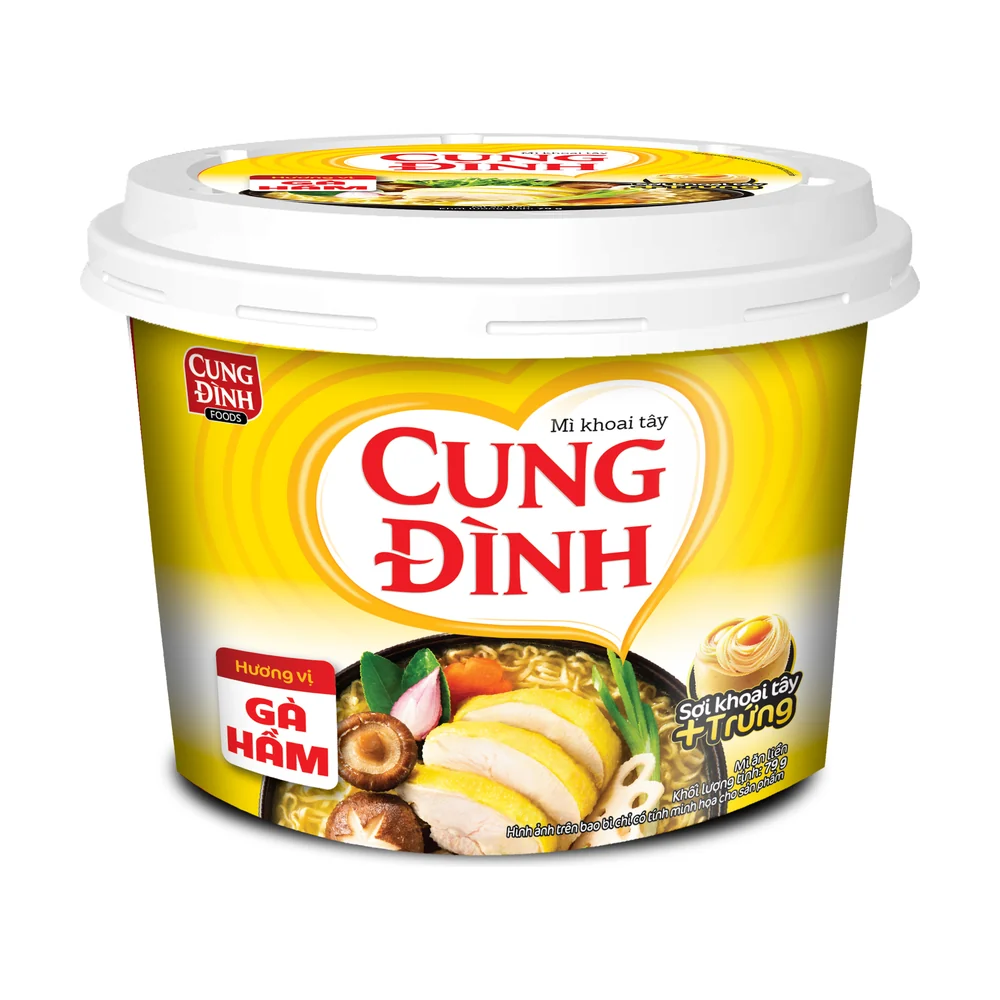
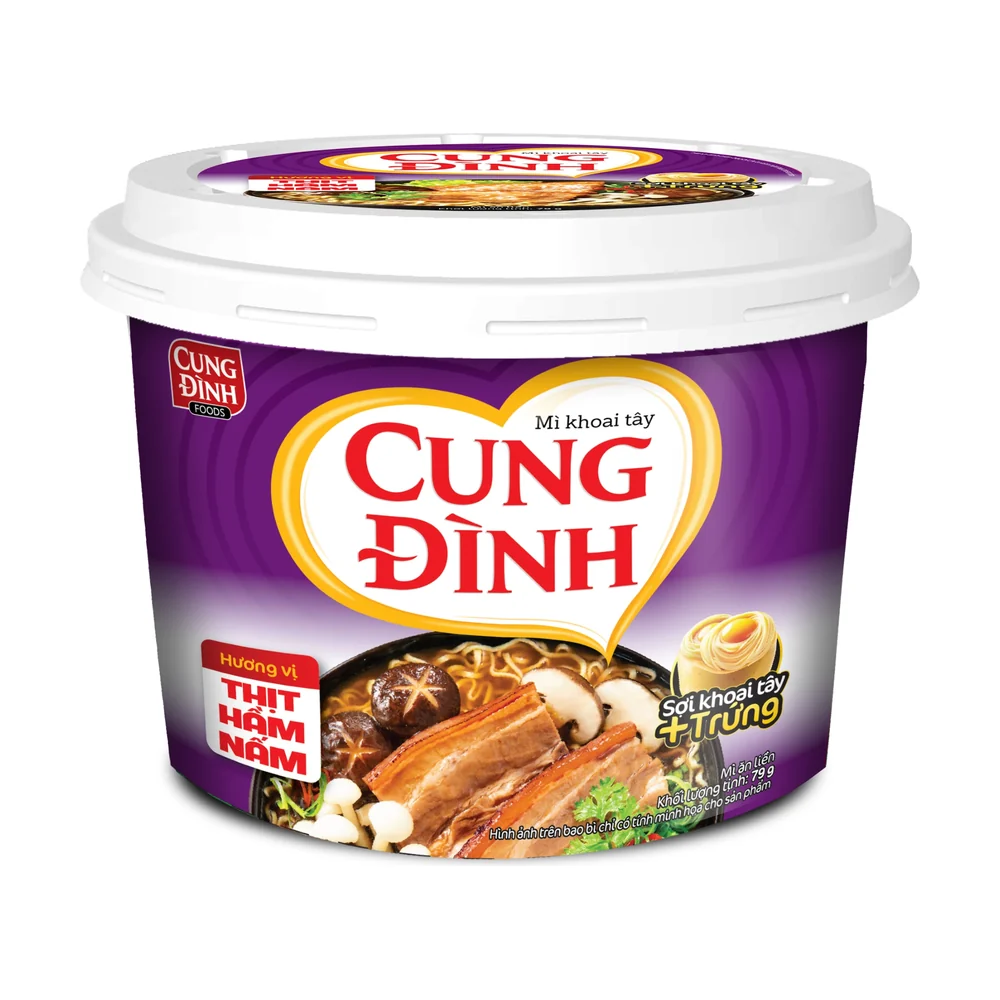
review(2500670-mi-ly-to-coc): barcode 8936010680500 is thit ham nam
The owner scanned 8936010680500: it is the Cung Dinh potato-noodle tub
in thit ham nam flavour, while KiotViet names it "Vi Ga Ham ... Tho
Tron" and the ga ham image was already applied. Replace its image with
the official thit ham nam render the owner sent and rewrite its
description (pack front only: the Afotech thit ham nam page is the
packet, not the tub).

Also bring the four tub descriptions in line with the repo: maker
Afotech, pack "tho", and full ingredients from the Afotech tub pages
for lau tom chua cay, suon heo ham mang and ga ham. All four
resubmitted for review.

Claude-Session: https://claude.ai/code/session_01WMj85wQmgde5QuFckyUipF

Changed region(s): [[0.124, 0.31, 0.868, 0.868], [0.186, 0.124, 0.806, 0.217]]

diff --git a/categories/2500670-mi-ly-to-coc/64865689-mi-hop-cung-dinh-lau-tom-chua-cay/description.md b/categories/2500670-mi-ly-to-coc/64865689-mi-hop-cung-dinh-lau-tom-chua-cay/description.md
@@ -1,4 +1,5 @@
-Mì khoai tây Cung Đình dạng hộp, hương vị lẩu tôm chua cay, sợi mì có khoai tây và trứng, kèm viên tôm.
+Mì khoai tây Cung Đình dạng thố, hương vị lẩu tôm chua cay; sợi mì có khoai tây và trứng, kèm gói tương ớt và rau sấy có viên tôm.
 
-Quy cách: 85 g · hộp
-Nhà sản xuất/thương hiệu: Cung Đình Foods · Cung Đình
+Thành phần: Vắt mì: bột mì, dầu cọ, tinh bột khoai mì, tinh bột khoai tây, muối, bột trứng và phụ gia. Gói xốt: hành, nước, dầu cọ, muối, đường, tỏi, nước mắm, ớt, bột tỏi, bột hành, bột ớt, bột tiêu, bột tôm, hương chanh, hương cua, hương sả và phụ gia. Gói tương ớt: giấm, đường, dầu cọ, bột ớt, muối và phụ gia. Gói rau: hành lá, đậu bắp, cà rốt sấy, giả thịt từ đậu nành, protein sấy vị tôm.
+Quy cách: 85 g · thố
+Xuất xứ: Việt Nam · Nhà sản xuất/thương hiệu: Afotech · Cung Đình

diff --git a/categories/2500670-mi-ly-to-coc/65139690-my-cung-dinh-khoai-tay-vi-ga-ham-12-tho-tron/description.md b/categories/2500670-mi-ly-to-coc/65139690-my-cung-dinh-khoai-tay-vi-ga-ham-12-tho-tron/description.md
@@ -1,6 +1,4 @@
-Mì khoai tây Cung Đình dạng thố hương vị Gà Hầm, lấy cảm hứng từ món gà hầm nấm hương, sợi mì có khoai tây và trứng.
+Mì khoai tây Cung Đình dạng thố, hương vị thịt hầm nấm; sợi mì có khoai tây và trứng.
 
-Thành phần: Vắt mì: bột mì, dầu cọ, tinh bột khoai mì, tinh bột khoai tây, muối, bột trứng và phụ gia. Gói xốt: nước, dầu cọ, muối, hành, đường, cốt nước tương, bột hành, bột tiêu, bột gừng, chiết xuất nấm men, nước mắm, hương gà, hương nấm, gừng và phụ gia. Gói rau: giả thịt từ protein lúa mì, hành lá, hành tây, cà rốt sấy.
 Quy cách: 79 g · thố
 Xuất xứ: Việt Nam · Nhà sản xuất/thương hiệu: Afotech · Cung Đình
-Hướng dẫn sử dụng: Cho gói xốt và gói rau vào thố, chế nước sôi đến vạch, đậy nắp chờ khoảng 3 phút rồi dùng.

diff --git a/categories/2500670-mi-ly-to-coc/64865694-my-to-cung-dinh-vi-suon-heo-80g-x-12to-thung/description.md b/categories/2500670-mi-ly-to-coc/64865694-my-to-cung-dinh-vi-suon-heo-80g-x-12to-thung/description.md
@@ -1,4 +1,5 @@
-Mì khoai tây Cung Đình dạng hộp, hương vị sườn heo hầm măng, sợi mì có khoai tây và trứng.
+Mì khoai tây Cung Đình dạng thố, hương vị sườn heo hầm măng; sợi mì có khoai tây và trứng, gói xốt có măng.
 
-Quy cách: 79 g · hộp
-Nhà sản xuất/thương hiệu: Cung Đình Foods · Cung Đình
+Thành phần: Vắt mì: bột mì, dầu cọ, tinh bột khoai mì, tinh bột khoai tây, muối, bột trứng và phụ gia. Gói xốt: nước, dầu cọ, măng, muối, nước mắm, bột hành, bột tỏi, bột tiêu, bột ớt, đường, hành, hương mùi tàu, hương thịt và phụ gia. Gói rau: giả thịt từ đậu nành, hành lá, hành tây, cà rốt sấy.
+Quy cách: 79 g · thố
+Xuất xứ: Việt Nam · Nhà sản xuất/thương hiệu: Afotech · Cung Đình

diff --git a/categories/2500670-mi-ly-to-coc/65139544-my-cung-dinh-bat-vi-ga-ham-80g/description.md b/categories/2500670-mi-ly-to-coc/65139544-my-cung-dinh-bat-vi-ga-ham-80g/description.md
@@ -1,4 +1,5 @@
-Mì khoai tây Cung Đình dạng hộp, hương vị gà hầm, sợi mì có khoai tây và trứng.
+Mì khoai tây Cung Đình dạng thố, hương vị gà hầm; sợi mì có khoai tây và trứng.
 
-Quy cách: 79 g · hộp
-Nhà sản xuất/thương hiệu: Cung Đình Foods · Cung Đình
+Thành phần: Vắt mì: bột mì, dầu cọ, tinh bột khoai mì, tinh bột khoai tây, muối, bột trứng và phụ gia. Gói xốt: nước, dầu cọ, muối, hành, đường, cốt nước tương, bột hành, bột tiêu, bột gừng, chiết xuất nấm men, nước mắm, hương gà, hương nấm, gừng và phụ gia. Gói rau: giả thịt từ protein lúa mì, hành lá, hành tây, cà rốt sấy.
+Quy cách: 79 g · thố
+Xuất xứ: Việt Nam · Nhà sản xuất/thương hiệu: Afotech · Cung Đình
